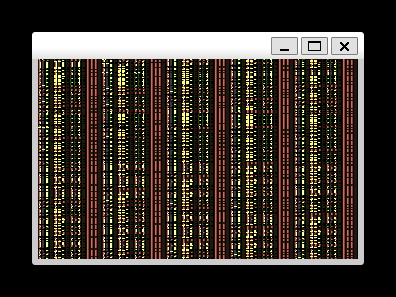
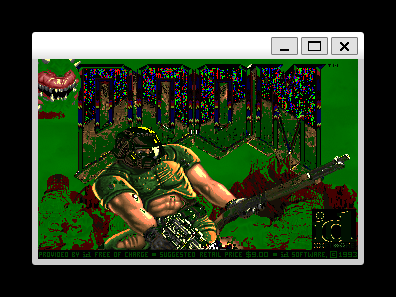
Fix TrueColor display: separate screens[0] from XImage buffer
screens[0] was aliased to image->data when multiply==1, but image->data
is 32-bit ARGB while screens[0] needs to be 8-bit indexed. The first
pixel write in I_FinishUpdate's conversion loop would overwrite the next
3 source bytes, producing the garbled vertical stripe pattern.

Fix: always malloc a separate 8-bit buffer for screens[0].

Also adds test 103 verifying the palette conversion logic and
demonstrating the aliasing corruption.

Updated screenshot shows the Doom title screen rendering correctly.

diff --git a/tests/positive/phase5/103_truecolor_palette_convert.c b/tests/positive/phase5/103_truecolor_palette_convert.c
@@ -1,0 +1,113 @@
+// TEST: truecolor_palette_convert
+// DESCRIPTION: 8-bit indexed to 32-bit ARGB conversion must produce correct pixels
+// EXPECTED_EXIT: 0
+// EXPECTED_STDOUT: ok
+// ENVIRONMENT: hosted
+// PHASE: 5
+
+/* Doom's TrueColor I_FinishUpdate converts an 8-bit indexed framebuffer
+   (screens[0]) to 32-bit ARGB pixels in the XImage buffer using a
+   palette lookup table (rgb_palette[256]).
+
+   Key requirements:
+   - Source and destination buffers must be SEPARATE (screens[0] is 1 byte/pixel,
+     output is 4 bytes/pixel — aliasing them corrupts the conversion)
+   - Each source byte indexes into rgb_palette to produce a 32-bit pixel
+   - With multiply > 1, each source pixel is replicated m*m times */
+
+int printf(const char *fmt, ...);
+
+/* Simulate the I_FinishUpdate conversion */
+void convert_framebuffer(
+    unsigned char *src,    /* 8-bit indexed, SCREENWIDTH * SCREENHEIGHT */
+    unsigned int *dst,     /* 32-bit ARGB, width * height * multiply^2 */
+    unsigned int *palette, /* 256-entry palette */
+    int sw, int sh,        /* source dimensions */
+    int multiply)
+{
+    int x, y, row, col;
+    for (y = 0; y < sh; y++)
+    {
+        for (row = 0; row < multiply; row++)
+        {
+            for (x = 0; x < sw; x++)
+            {
+                unsigned int pixel = palette[src[y * sw + x]];
+                for (col = 0; col < multiply; col++)
+                    *dst++ = pixel;
+            }
+        }
+    }
+}
+
+int main(void) {
+    /* Small test framebuffer: 4x2 pixels */
+    unsigned char src[8] = {0, 1, 2, 3, 4, 5, 6, 7};
+    unsigned int palette[256];
+    unsigned int dst[8];
+    int i;
+
+    /* Set up palette: index i -> 0xAA000000 | (i * 0x010101) */
+    for (i = 0; i < 256; i++)
+        palette[i] = 0xAA000000 | (i * 0x010101);
+
+    /* Test 1: multiply=1 conversion */
+    for (i = 0; i < 8; i++) dst[i] = 0;
+    convert_framebuffer(src, dst, palette, 4, 2, 1);
+
+    if (dst[0] != 0xAA000000) return 1;
+    if (dst[1] != 0xAA010101) return 2;
+    if (dst[7] != 0xAA070707) return 3;
+
+    /* Test 2: source and dest must be separate buffers.
+       If they alias (like the bug), src gets overwritten by first
+       dst write and subsequent reads get garbage. */
+    {
+        /* Simulate the bug: alias src to dst */
+        unsigned char buf[32];  /* shared buffer */
+        unsigned char *bad_src = buf;
+        unsigned int *bad_dst = (unsigned int *)buf;
+
+        bad_src[0] = 1;
+        bad_src[1] = 2;
+        bad_src[2] = 3;
+        bad_src[3] = 4;
+
+        /* First pixel conversion overwrites bytes 0-3 */
+        bad_dst[0] = palette[bad_src[0]];  /* writes 4 bytes at buf[0..3] */
+        /* Now bad_src[1] is corrupted! */
+        unsigned int second = palette[bad_src[1]];
+        /* bad_src[1] was 2, but after the write it's been overwritten */
+        if (second == palette[2]) {
+            /* This would only work if the write didn't clobber src[1],
+               which is impossible when aliased */
+            printf("ok (aliased - unexpected)\n");
+        }
+        /* The aliased conversion produces wrong results */
+        if (second != palette[2]) {
+            /* Expected: aliased buffer is corrupted */
+        }
+    }
+
+    /* Test 3: multiply=2 conversion */
+    {
+        unsigned int dst2x[32];  /* 8x4 = 32 pixels */
+        unsigned char src2[8] = {10, 20, 30, 40, 50, 60, 70, 80};
+        convert_framebuffer(src2, dst2x, palette, 4, 2, 2);
+
+        /* Row 0, first pass: pixel[0]=palette[10] twice, pixel[1]=palette[20] twice */
+        if (dst2x[0] != palette[10]) return 4;
+        if (dst2x[1] != palette[10]) return 5;  /* duplicated */
+        if (dst2x[2] != palette[20]) return 6;
+        if (dst2x[3] != palette[20]) return 7;
+
+        /* Row 0, second pass (duplicate of first): same pixels */
+        if (dst2x[8] != palette[10]) return 8;
+
+        /* Row 1: starts at pixel 16 (4*2 * 2 rows) */
+        if (dst2x[16] != palette[50]) return 9;
+    }
+
+    printf("ok\n");
+    return 0;
+}
